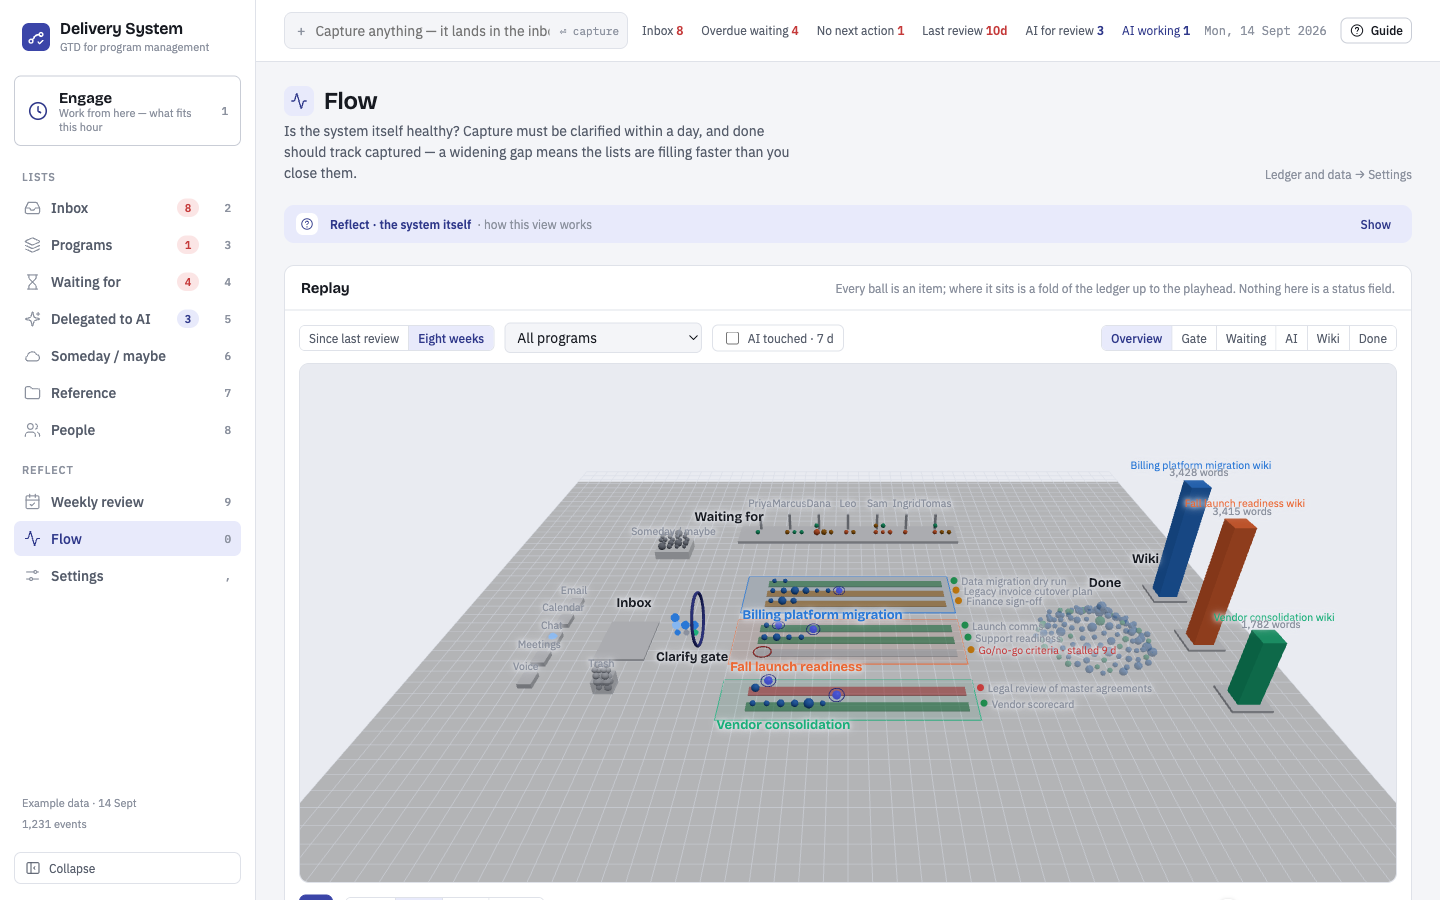
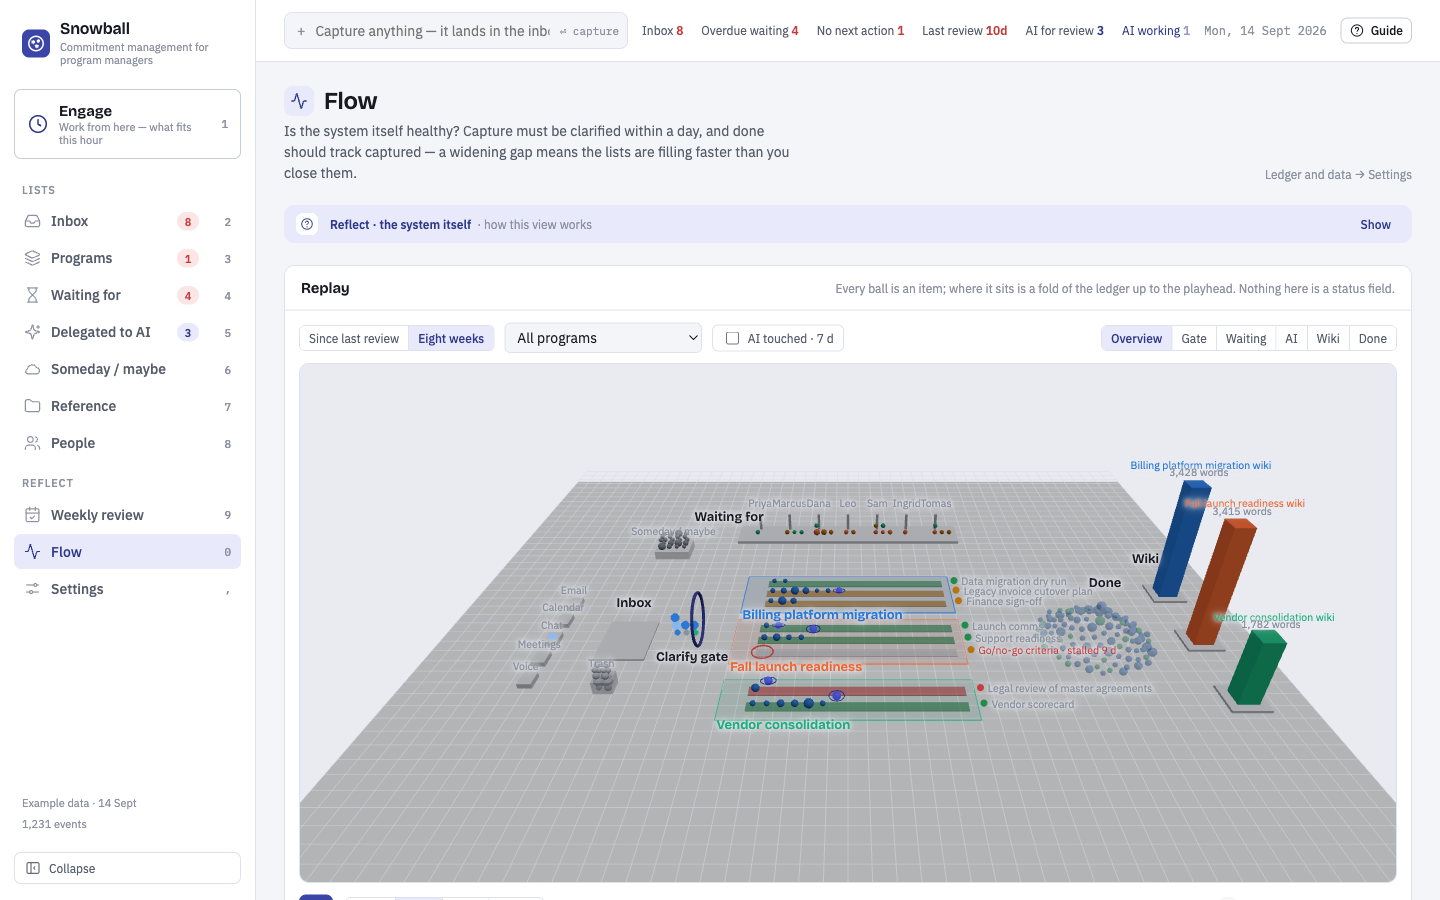
README screenshots under the Snowball brand; rail subtitle wraps

diff --git a/frontend/src/styles/app.css b/frontend/src/styles/app.css
@@ -19,7 +19,7 @@ h1{font-size:24px;line-height:1.2} h2{font-size:17px;line-height:1.3} h3{font-si
 .brand .mark svg{width:20px;height:20px;display:block}
 .brand .bt{display:flex;flex-direction:column;gap:2px;min-width:0}
 .brand .name{font-family:var(--display);font-weight:600;font-size:16px;line-height:1.15;letter-spacing:-.01em;white-space:nowrap}
-.brand .sub{font-size:11px;color:var(--ink-3);line-height:1.2;white-space:nowrap}
+.brand .sub{font-size:11px;color:var(--ink-3);line-height:1.2;white-space:normal}
 .nav{display:flex;flex-direction:column;gap:2px}
 .nav .group{padding:12px 8px 4px;font-size:11px;letter-spacing:.08em;text-transform:uppercase;color:var(--ink-3);font-weight:500}
 .nav a{display:flex;align-items:center;gap:10px;padding:7px 10px;border-radius:7px;color:var(--ink-2);text-decoration:none;font-weight:500}
